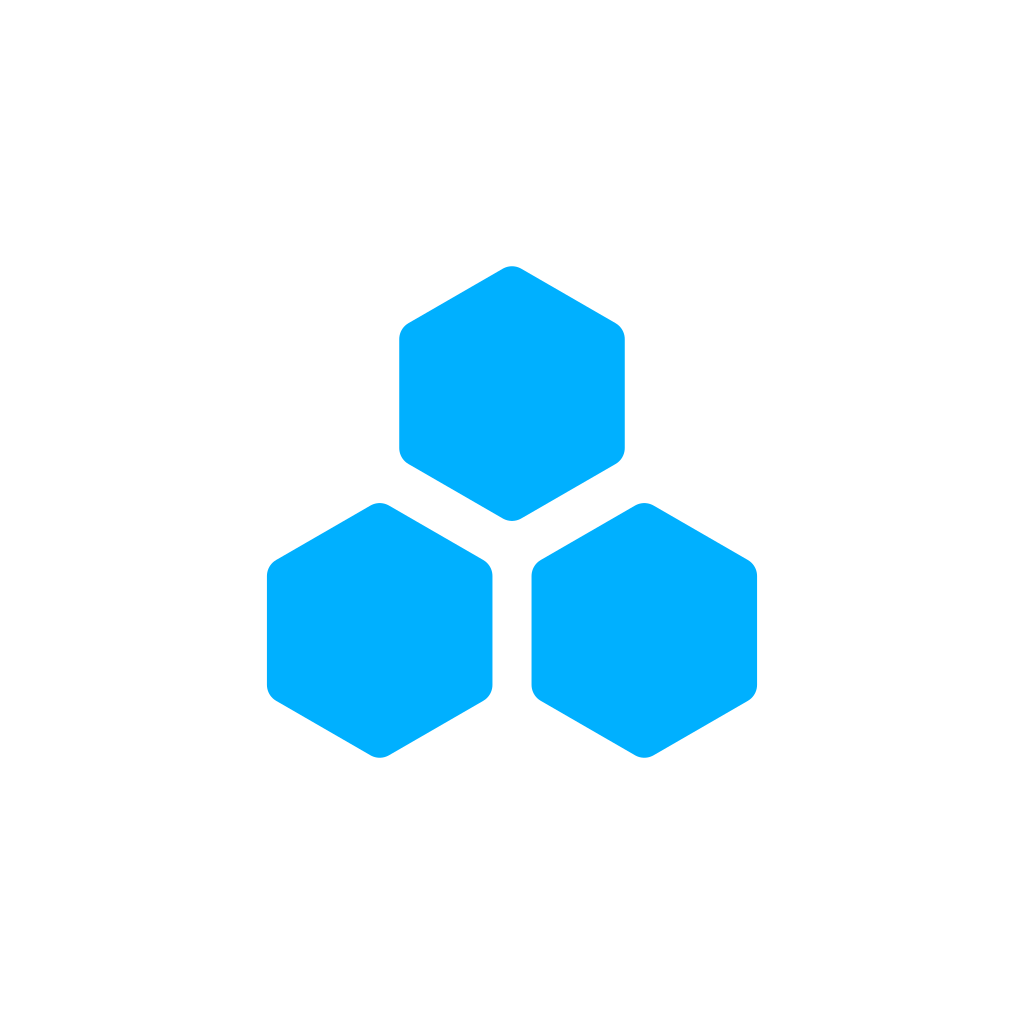
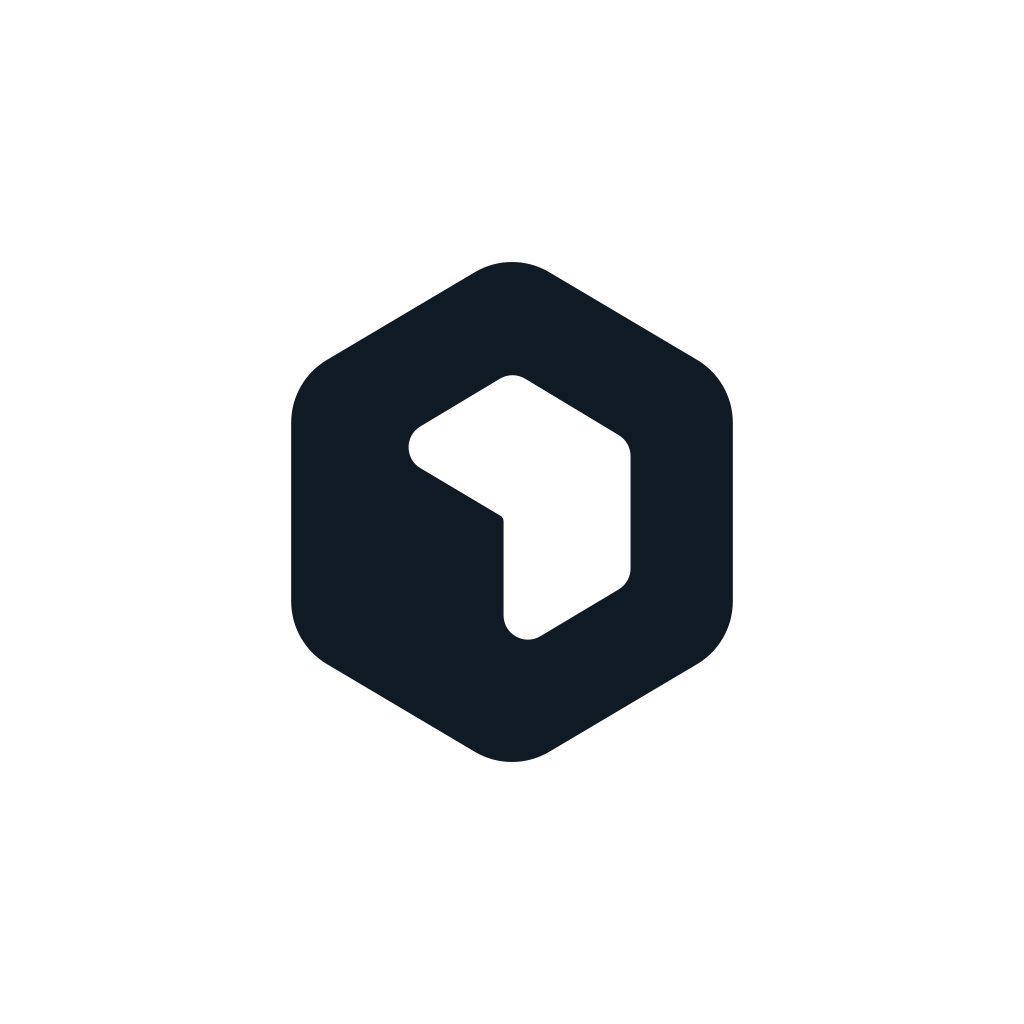
feat(mes-mobile): the real Carbon mark, a themed splash, and a fade on launch
Three things, all about the first second of the app.

**The logo was not Carbon's.** The store-configuration work drew its own
three-hexagon mark, measured off `apps/mes/public/icons/1024.png`. Carbon's
actual mark is a single hexagon and it is already in the repo as
`apps/erp/public/carbon-mark-light.svg`. The icon, the Android adaptive
foreground and both splash images are now rendered from that file, so there is
one mark and it is the real one. `icon.png` keeps its alpha stripped — App
Store Connect rejects an icon that has any.

**The splash was light in both schemes.** `expo-splash-screen` takes a `dark`
block and had none, so a dark-mode phone got the light background. It has one
now: `#f2f2f3` and `#161313`, which are this app's own `--background` token in
its two modes.

**But the native splash is not ours in Expo Go**, which is how the app is being
tested — Expo Go shows its own, and `app.json`'s splash only applies to a real
build. So the white the user saw was partly Expo Go and partly our own launch
state, which was a bare spinner.

The first frame the app actually owns is now `LaunchScreen`: the mark fades and
lifts over 320ms, the wordmark follows over 240ms, on `bg-background` so it
follows the system scheme like every other screen. It uses the same asset the
native splash does, so a real build hands over from one to the other without
the logo jumping.

Not a spinner, deliberately. This is the normal path on every launch, and a
[…]

Changed region(s): [[0.25, 0.25, 0.75, 0.75]]

diff --git a/apps/mobile/src/components/LaunchScreen.tsx b/apps/mobile/src/components/LaunchScreen.tsx
@@ -1,0 +1,79 @@
+// SPDX-License-Identifier: AGPL-3.0-only
+// Carbon (github.com/crbnos/carbon). Modified or adapted versions of this file,
+// including ports, remain AGPLv3; serving them over a network requires releasing their source.
+
+import { Trans } from "@lingui/react/macro";
+import { Image } from "expo-image";
+import { useEffect, useRef } from "react";
+import { Animated, Easing, View } from "react-native";
+
+/**
+ * What the app shows while it works out which of the three worlds it is in.
+ *
+ * It exists because the NATIVE splash is not ours in Expo Go — Expo Go shows
+ * its own, and `app.json`'s splash config only applies to a real build. This
+ * is the first frame the app itself owns, so it is the one that has to be
+ * branded and has to follow the system's light/dark choice. It does both by
+ * being an ordinary screen: `bg-background` is the theme token every other
+ * screen uses.
+ *
+ * The mark fades and lifts, the wordmark follows it. Deliberately slow enough
+ * to read (320ms, then 240ms) and deliberately NOT a spinner: a spinner says
+ * "something may be wrong", and this is the normal path on every launch.
+ */
+export function LaunchScreen() {
+  const markOpacity = useRef(new Animated.Value(0)).current;
+  const markLift = useRef(new Animated.Value(12)).current;
+  const wordOpacity = useRef(new Animated.Value(0)).current;
+
+  useEffect(() => {
+    Animated.sequence([
+      Animated.parallel([
+        Animated.timing(markOpacity, {
+          toValue: 1,
+          duration: 320,
+          easing: Easing.out(Easing.quad),
+          // The whole animation runs on the UI thread, so a slow first render
+          // of the screen behind it cannot make the fade stutter.
+          useNativeDriver: true
+        }),
+        Animated.timing(markLift, {
+          toValue: 0,
+          duration: 320,
+          easing: Easing.out(Easing.quad),
+          useNativeDriver: true
+        })
+      ]),
+      Animated.timing(wordOpacity, {
+        toValue: 1,
+        duration: 240,
+        easing: Easing.out(Easing.quad),
+        useNativeDriver: true
+      })
+    ]).start();
+  }, [markOpacity, markLift, wordOpacity]);
+
+  return (
+    <View className="flex-1 items-center justify-center bg-background">
+      <Animated.View
+        style={{ opacity: markOpacity, transform: [{ translateY: markLift }] }}
+      >
+        <Image
+          source={require("~/assets/images/splash-icon.png")}
+          style={{ width: 96, height: 96 }}
+          contentFit="contain"
+          // The mark is the same asset the native splash uses, so a real build
+          // hands over from one to the other without the logo jumping.
+          accessibilityLabel="Carbon"
+        />
+      </Animated.View>
+
+      <Animated.Text
+        style={{ opacity: wordOpacity }}
+        className="mt-5 text-base tracking-widest text-muted-foreground"
+      >
+        <Trans>Carbon MES</Trans>
+      </Animated.Text>
+    </View>
+  );
+}

diff --git a/apps/mobile/src/app/index.tsx b/apps/mobile/src/app/index.tsx
@@ -2,10 +2,8 @@
 // Carbon (github.com/crbnos/carbon). Modified or adapted versions of this file,
 // including ports, remain AGPLv3; serving them over a network requires releasing their source.
 
-import { Trans } from "@lingui/react/macro";
 import { Redirect } from "expo-router";
-import { ActivityIndicator, View } from "react-native";
-import { Muted, Screen } from "~/components/ui";
+import { LaunchScreen } from "~/components/LaunchScreen";
 import { useAuth } from "~/lib/auth/AuthProvider";
 
 /**
@@ -18,18 +16,9 @@ import { useAuth } from "~/lib/auth/AuthProvider";
 export default function Index() {
   const { state } = useAuth();
 
-  if (state === "loading") {
-    return (
-      <Screen>
-        <View className="flex-1 items-center justify-center gap-3">
-          <ActivityIndicator />
-          <Muted>
-            <Trans>Carbon MES</Trans>
-          </Muted>
-        </View>
-      </Screen>
-    );
-  }
+  // A branded fade rather than a spinner. This is the normal path on every
+  // launch, and a spinner reads as "something may be wrong".
+  if (state === "loading") return <LaunchScreen />;
 
   if (state === "no_instance") return <Redirect href="/(setup)/connect" />;
   if (state === "ready") return <Redirect href="/(app)/(tabs)/operations" />;
